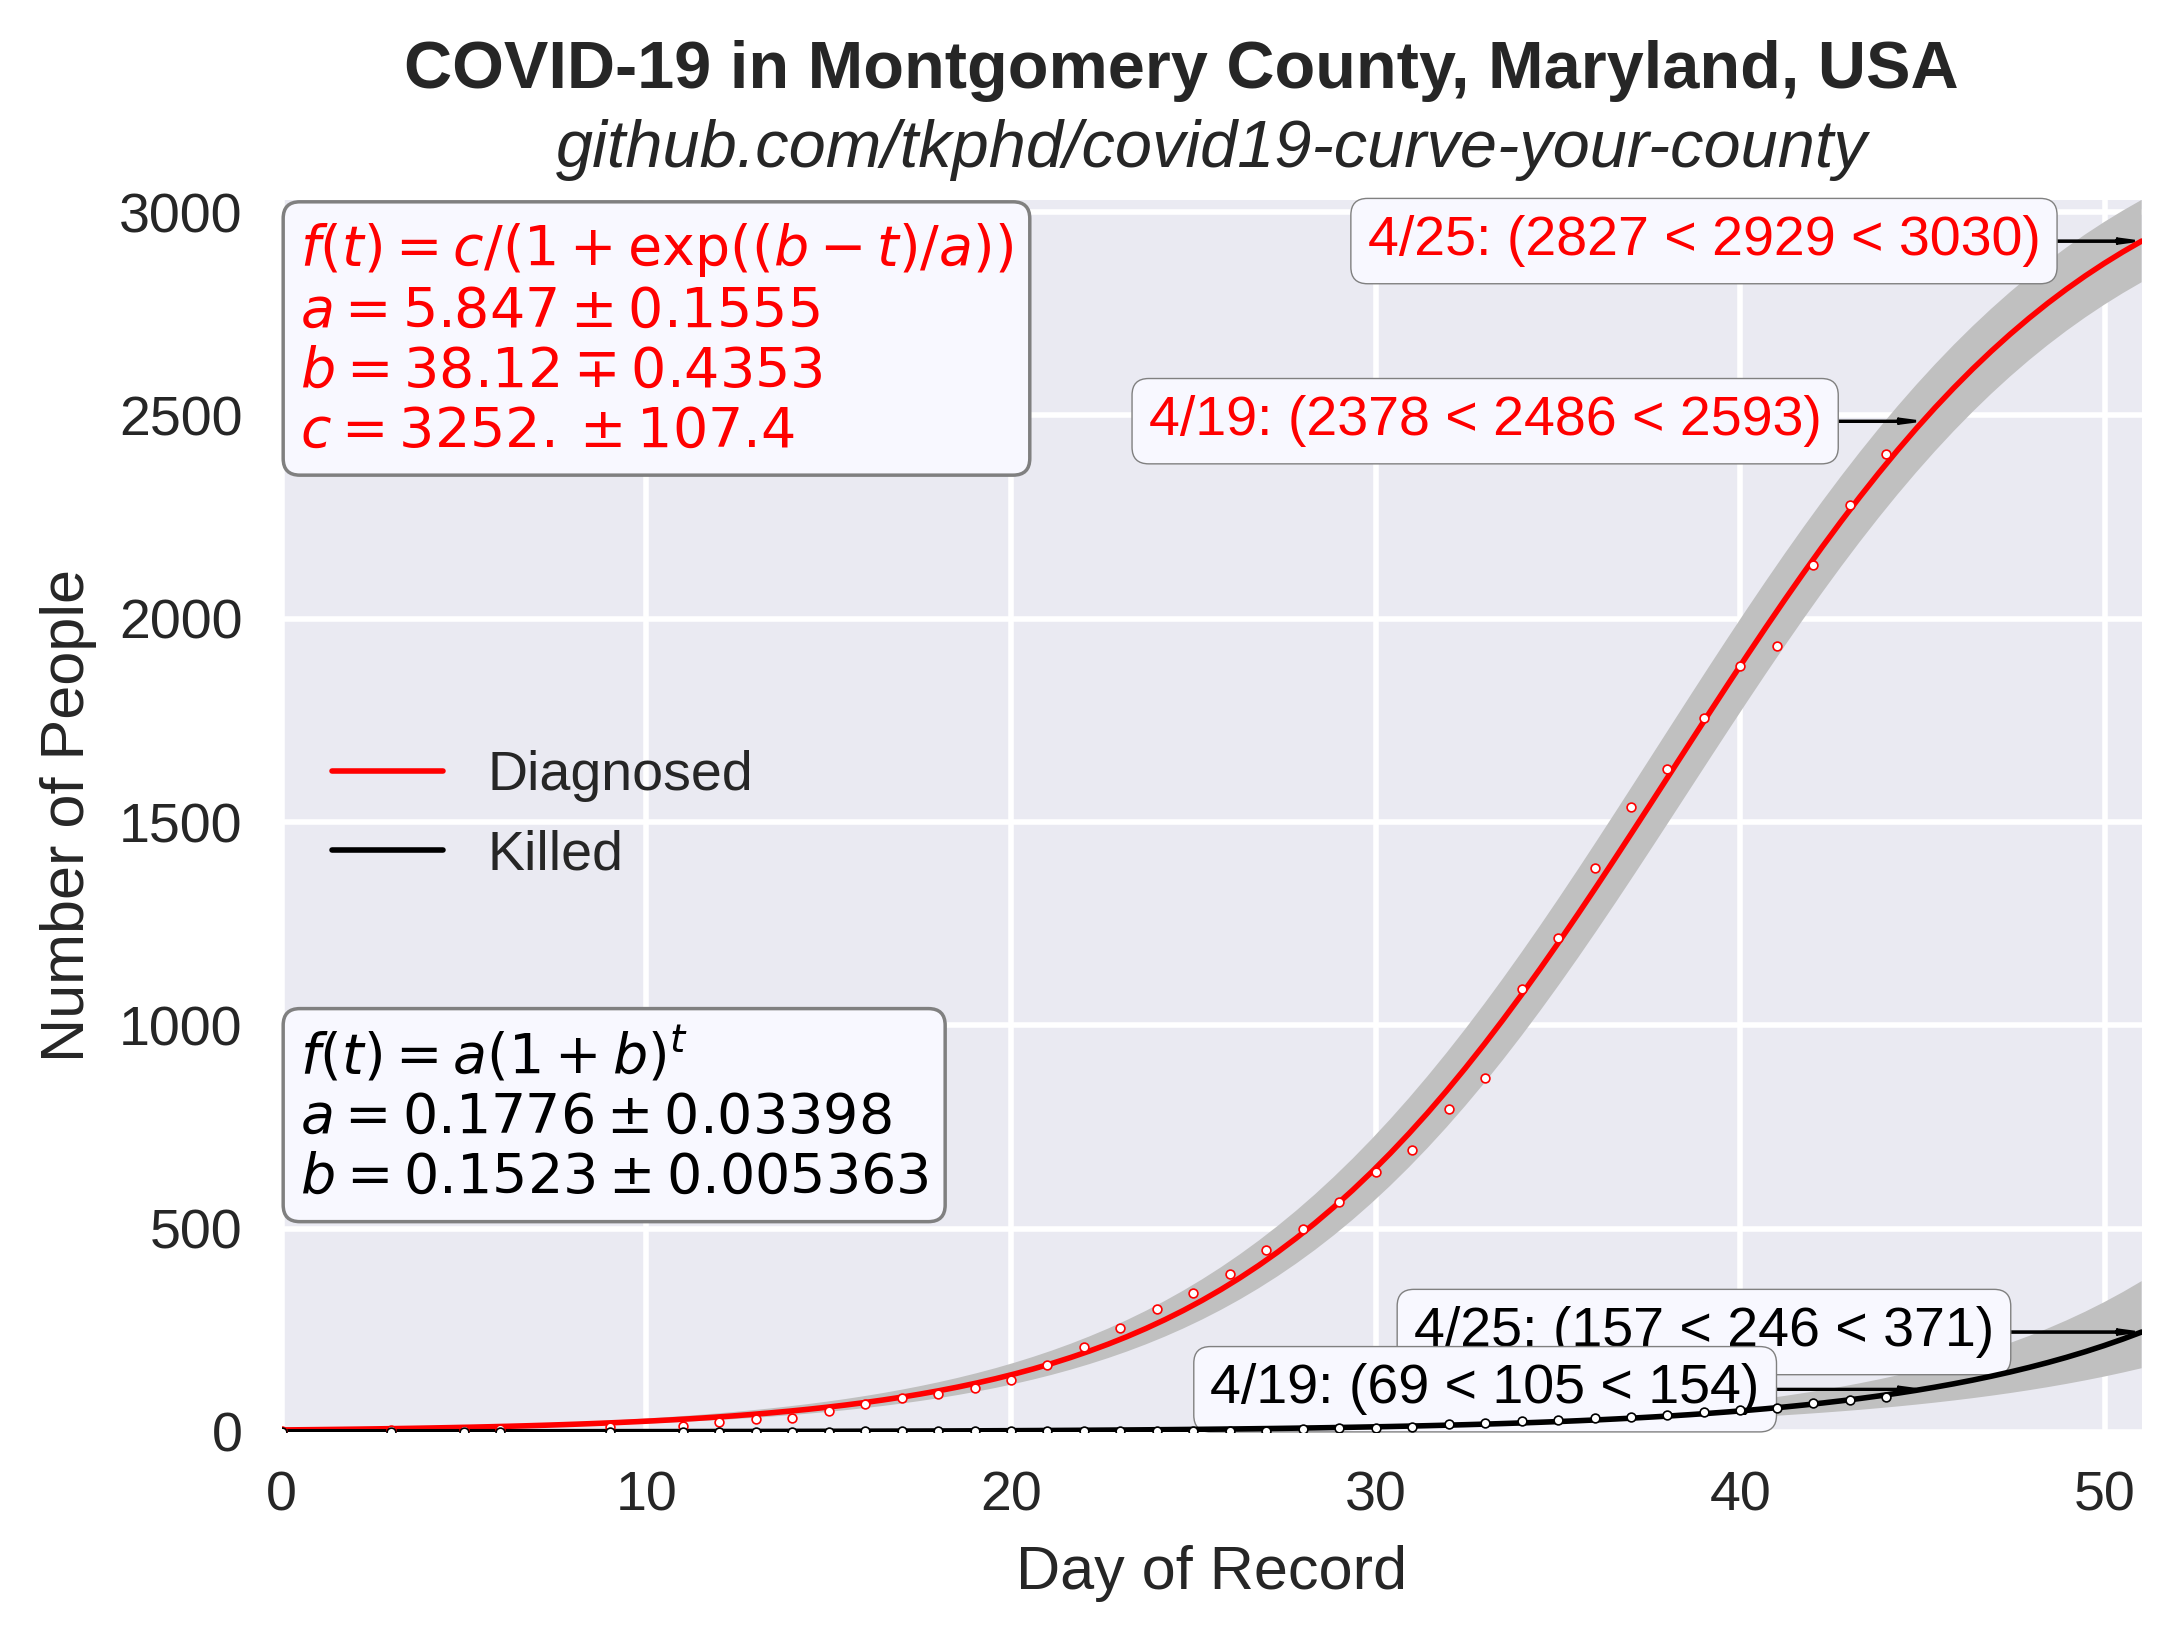
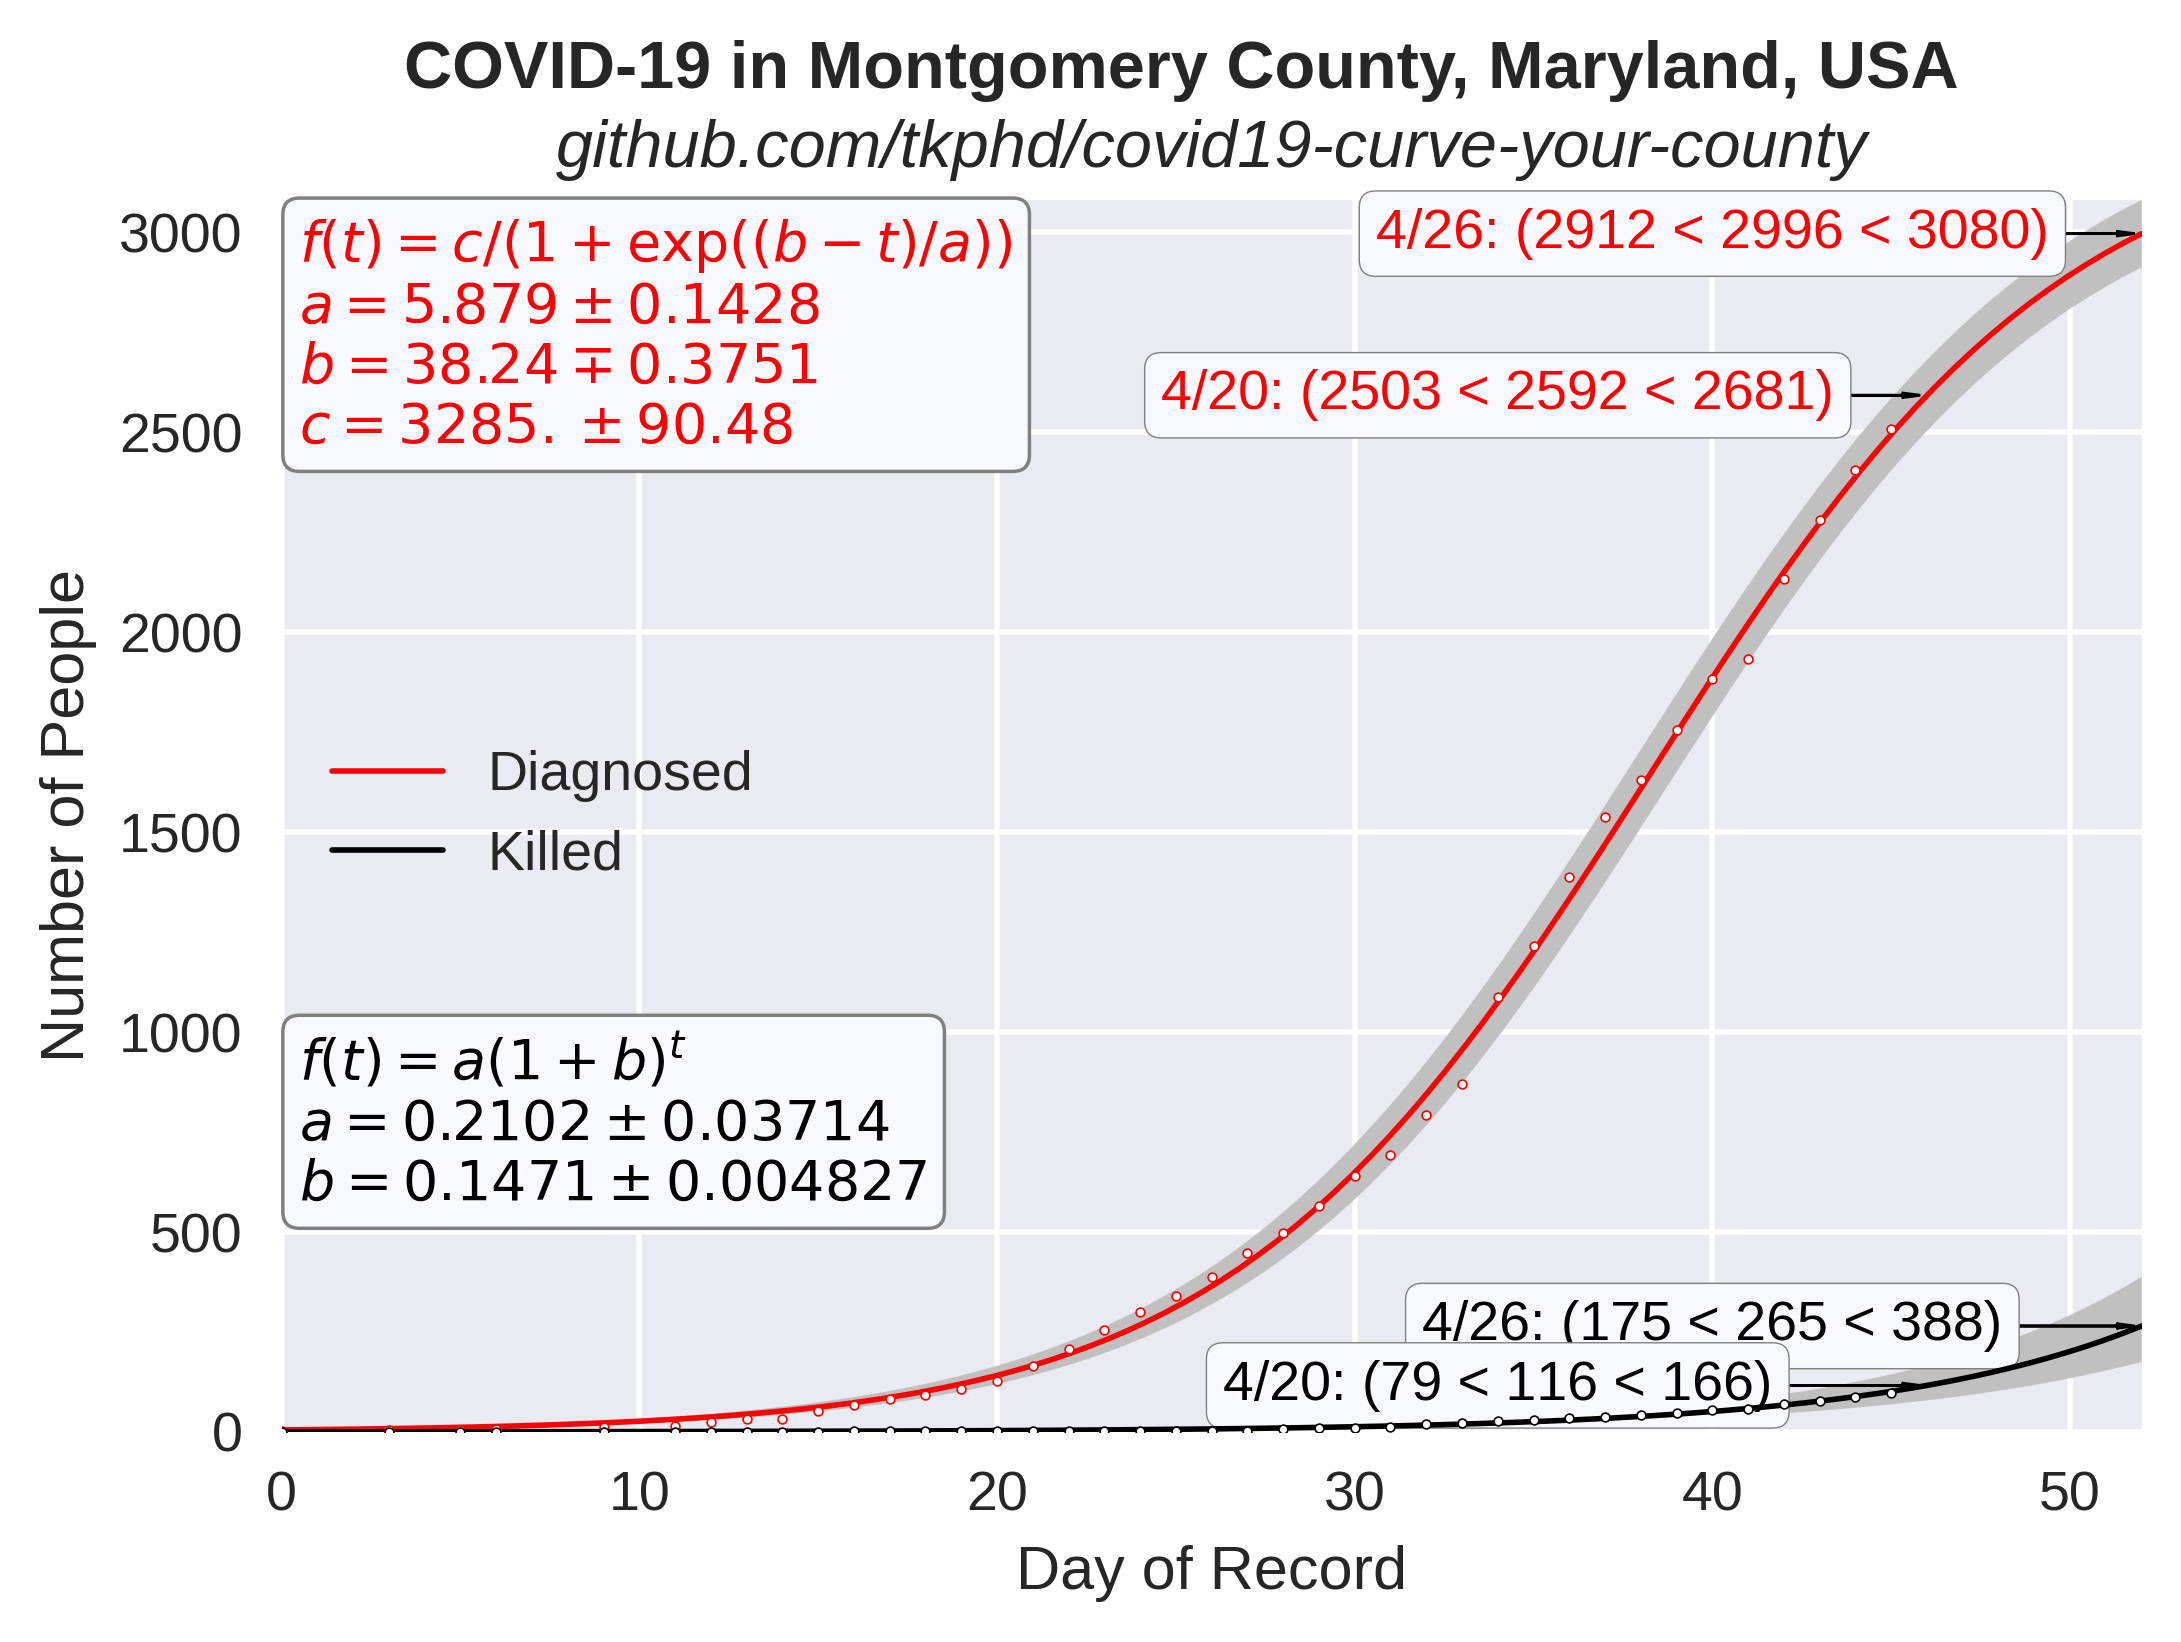
2020-04-19 update

diff --git a/exponential.py b/exponential.py
@@ -9,8 +9,8 @@ columns = ["diagnosed", "killed"]
 models = {"diagnosed": "log",
           "killed": "exp"}
 
-equations = {"exp": "$f(t) = a (1 + b)^t$\n$a = {0:.4f} \pm {2}$\n$b = {1:.4f} \pm {3}$",
-             "log": "$f(t) = c / (1 + \exp((b - t)/a))$\n$a = {0} \pm {3}$\n$b = {1} \mp {4}$\n$c = {2:.0f}. \pm {5}$"}
+equations = {"exp": "$f(t) = a (1 + b)^t$\n$a = {0:.4f} \pm {2:.5f}$\n$b = {1:.4f} \pm {3:.6f}$",
+             "log": "$f(t) = c / (1 + \exp((b - t)/a))$\n$a = {0:.3f} \pm {3:.4f}$\n$b = {1:.2f} \mp {4:.4f}$\n$c = {2:.0f}. \pm {5:.2f}$"}
 
 # Set colors for the plot
 
